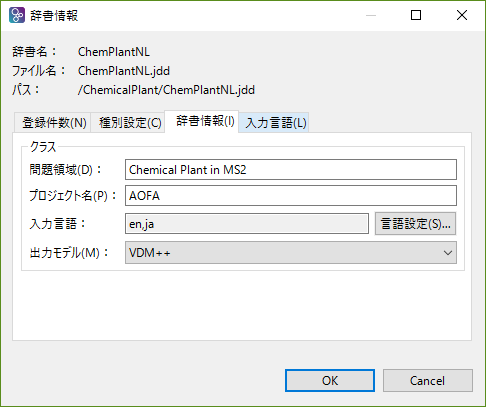
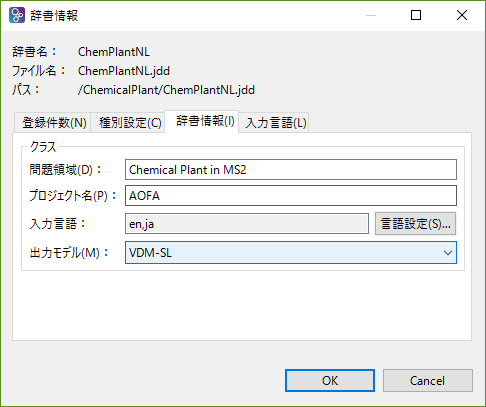
add pngs for NL

Changed region(s): [[0.2469, 0.5897, 0.9568, 0.6486]]

diff --git a/JODTool.md b/JODTool.md
@@ -9,6 +9,7 @@
 * [プロジェクトの作成](#プロジェクトの作成)
 * [ファイルの追加](#ファイルの追加)
 * [フォーマルな用語辞書の設定](#フォーマルな用語辞書の設定)
+* [自然言語テキストの分析](#自然言語テキストの分析)
 * [要求文書の読み込み](#要求文書の読み込み)
 * [自然言語による要求の整理](#自然言語による要求の整理)
     * [キーフレーズの抽出](#キーフレーズの抽出)
@@ -117,6 +118,8 @@ Work with のところで，欄右の▽をクリックし[JODTool](http://aofa.
 
 ![ディスクからの削除選択](deleteProjectFromDisc.png)
 
+**このチュートリアルでは VDM-SL のプロジェクトを作成し， Chemical Plant 等の名前をつける**
+
 ##ファイルの追加
 
  [Overture tools](http://overturetool.org) のプロジェクトに既存のファイルを追加するには， VDM Explorer 上のプロジェクトを選択し，右クリックで Import... -> File System と選択し，
@@ -130,8 +133,6 @@ Work with のところで，欄右の▽をクリックし[JODTool](http://aofa.
 ![ファイル選択](browseFolder.png)
 
 同様に Import -> Existing Projects into Workspace を選択し，エクスポートしたプロジェクトをインポートすることもできる．
-
-このチュートリアルで使用する [Modelling Systems](http://overturetool.org/publications/books/ms2/) の化学プラント要求記述は，[英語版](RequirementE.txt)と[日本語版](RequirementJ.txt)があるので，適当な場所へダウンロードしてプロジェクトへ追加する．
 
 ##フォーマルな用語辞書の設定
 
@@ -172,7 +173,7 @@ Work with のところで，欄右の▽をクリックし[JODTool](http://aofa.
 
 ![New Button on Dictionary View](newDic.png)
 
-新規に作成した辞書も Default という名前になるので，上述の手順によりプロパティを設定する．
+新規に作成した辞書も Default という名前になるので，上述の手順により辞書名，プロパティを設定する．
 
 既存の辞書を開く場合は， Dictionary View 右上にあるツールバーの Open File ボタンを押す．
 
@@ -183,33 +184,34 @@ Work with のところで，欄右の▽をクリックし[JODTool](http://aofa.
 ![辞書の指定](loadDic.png)
 
 一つのプロジェクトで目的の異なる複数の辞書を同時に開いて用いることも可能である．
-
  VDM Explorer 上でフォーマルな用語辞書を開こうとすると辞書データが XML としてエディタで表示されてしまうので，注意が必要である．
 
-## 自然言語テキストの分析
+**このチュートリアルでは辞書名を ChemicalPlant.jdd 等とし，問題領域を化学プラント警報システム，プロジェクト名を AOFA, 入力言語を en と jp, 出力モデルを VDM-SL とする．**
 
-### 仕様書エディタでテキストを開く
+##自然言語テキストの分析
+
+##要求文書の読み込み
 
 自然言語で記述された要求は，ソフトウェア開発の出発点である．
- [JODTool](http://aofa.csce.kyushu-u.ac.jp/JODTool) は，自然言語による plain text または，特定のフォーマットの Excel ファイルを読み込むことができる．
+ [JODTool](http://aofa.csce.kyushu-u.ac.jp/JODTool) は，自然言語による plain text または html または，特定のフォーマットの Excel ファイルを読み込むことができる．
 文字コードは UTF-8 を想定しており，言語には依存しない．
 
-最初に分析対象となる自然言語記述を，[ファイル追加](#addFile)の手順によりプロジェクトに追加する．
- VDM Explorer はデフォルトでテキストファイルを Textfile Editor で開くので， [JODTool](http://aofa.csce.kyushu-u.ac.jp/JODTool) を使用するためには，プロジェクトに追加した自然言語による要求ファイルを， VDM Explorer 上で選択し，右クリックで Open with -> Other ... を選択し，
+最初に分析対象となる自然言語記述を，[ファイル追加](#ファイルの追加)の手順によりプロジェクトに追加する．
 
-![自然言語によるテキストファイルを開く](openRFC.png)
+**このチュートリアルで使用する [Modelling Systems](http://overturetool.org/publications/books/ms2/) の化学プラント要求記述は，[英語版](RequirementE.txt)と[日本語版](RequirementJ.txt)があるので，適当な場所へダウンロードしてプロジェクトへ追加する．**
 
-ここで Specification Editor を指定する．
+VDM Explorer はデフォルトでテキストファイルを Textfile Editor で開いてしまうので， [JODTool](http://aofa.csce.kyushu-u.ac.jp/JODTool) を使用するためには，プロジェクトに追加した自然言語による要求ファイルを， VDM Explorer 上で選択し，右クリックで Open with -> Other ... を選択し，仕様書エディター (Specification Editor) を指定する．
+
+![自然言語によるテキストファイルを開く](openText.png)
 
 ![仕様書エディタを指定](selectSpecEditor.png)
 
-メニューバーに Verification(日本語化パックを導入している場合は「検証」) が追加されていれば， Specification Editor が使われていることが確認できる．
-
+仕様書エディターが使われているかどうかは，メニューバーに「検証」 (Verification) が追加されていれば， Specification Editor が使われていることが確認できる．
 ひとつのプロジェクトにおいて，複数の自然言語記述ファイルを同時に開くことも可能である．
 
 ## 自然言語による意味定義
 
-### フォーマルな用語辞書
+## フォーマルな用語辞書
 
 フォーマルな用語辞書は自然言語サイドと VDM サイドがあり，自然言語サイドは Entry, sub keyword, conjugation, classification, informal definition からなる．
 
